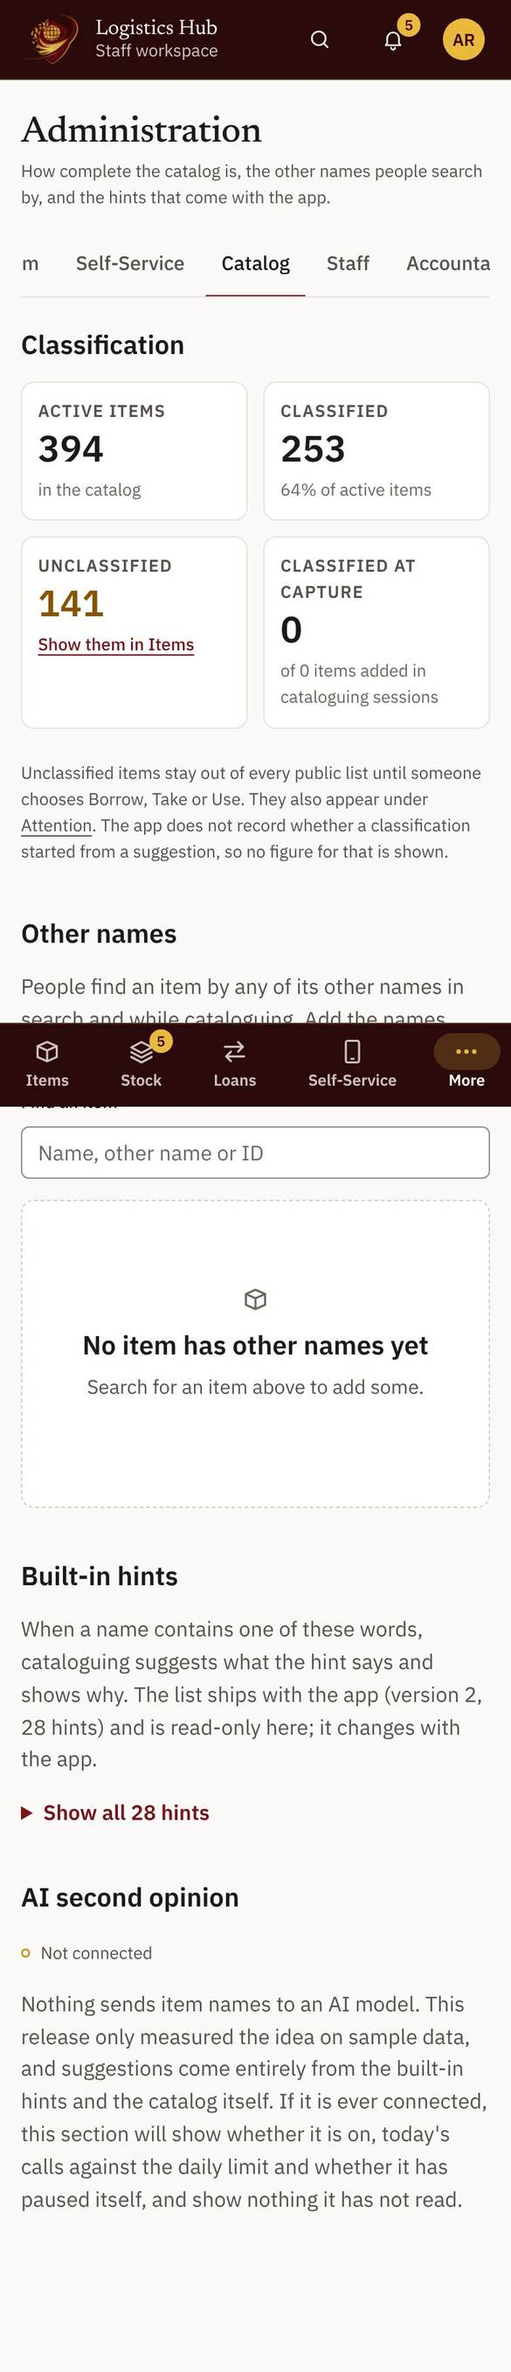
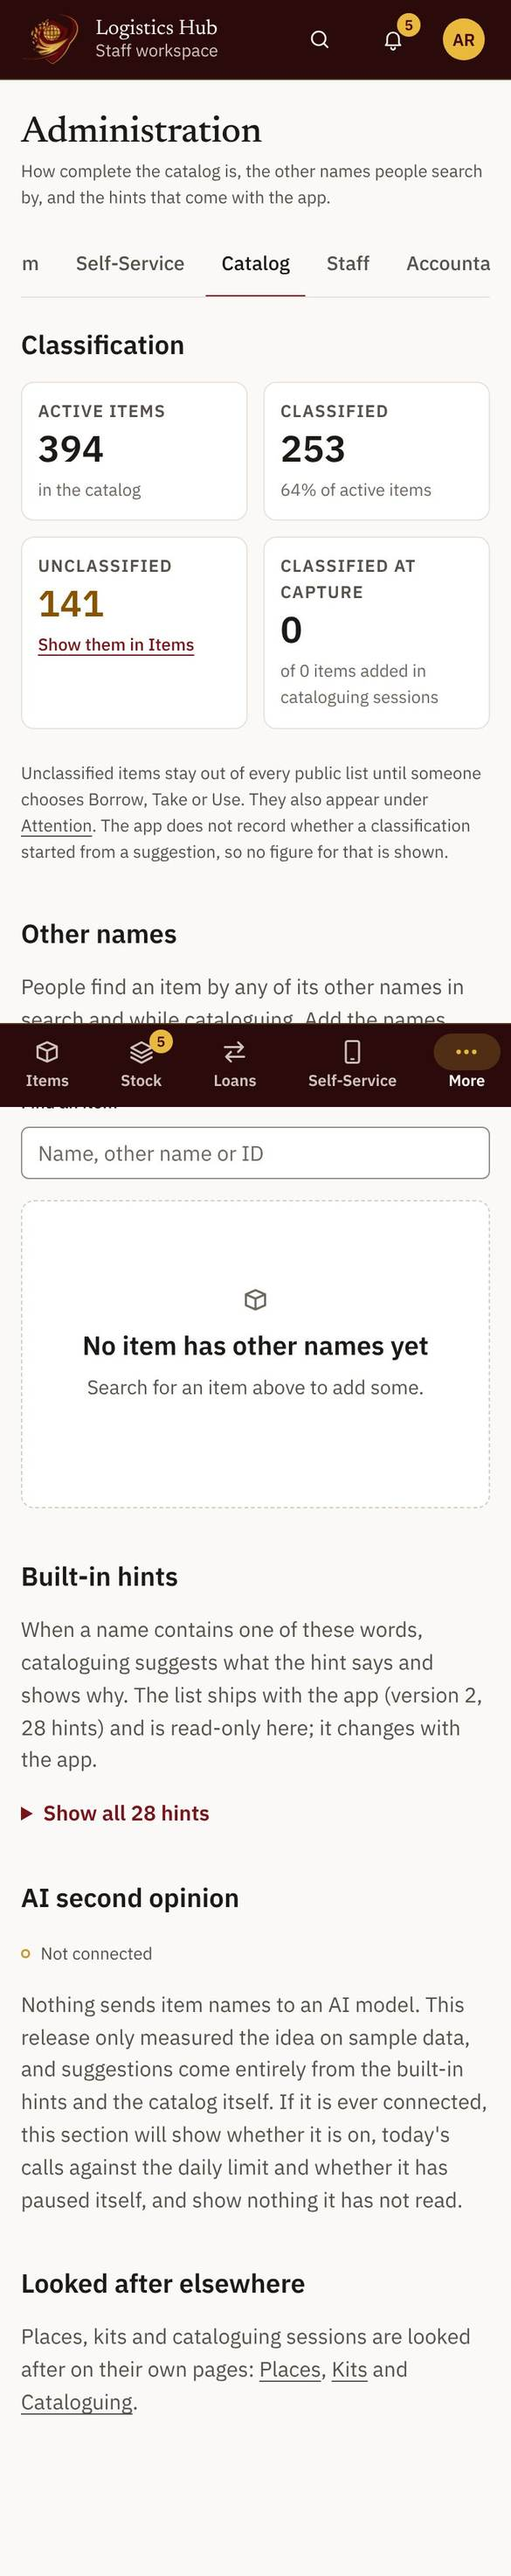
feat(v1.13): Catalog section links to Places, Kits and Cataloguing; refreshed evidence
Claude-Session: https://claude.ai/code/session_01RhnCHdq7RqqeZJkfeNU22a

diff --git a/src/admin-catalog.ts b/src/admin-catalog.ts
@@ -42,6 +42,10 @@ export async function catalogSettings(): Promise<void> {
       <p><span class="tag tag--pending">Not connected</span></p>
       <p>Nothing sends item names to an AI model. This release only measured the idea on sample data, and suggestions come entirely from the built-in hints and the catalog itself. If it is ever connected, this section will show whether it is on, today's calls against the daily limit and whether it has paused itself, and show nothing it has not read.</p>
     </section>
+    <section class="admin-block" aria-labelledby="elsewhere-title">
+      <h2 id="elsewhere-title" class="section-title">Looked after elsewhere</h2>
+      <p>Places, kits and cataloguing sessions are looked after on their own pages: <a href="/staff/locations" data-route>Places</a>, <a href="/staff/kits" data-route>Kits</a> and <a href="/staff/catalogue" data-route>Cataloguing</a>.</p>
+    </section>
     <dialog class="sheet" id="sheet" aria-labelledby="sheet-title"></dialog>`
   });
   if (!session) return;
